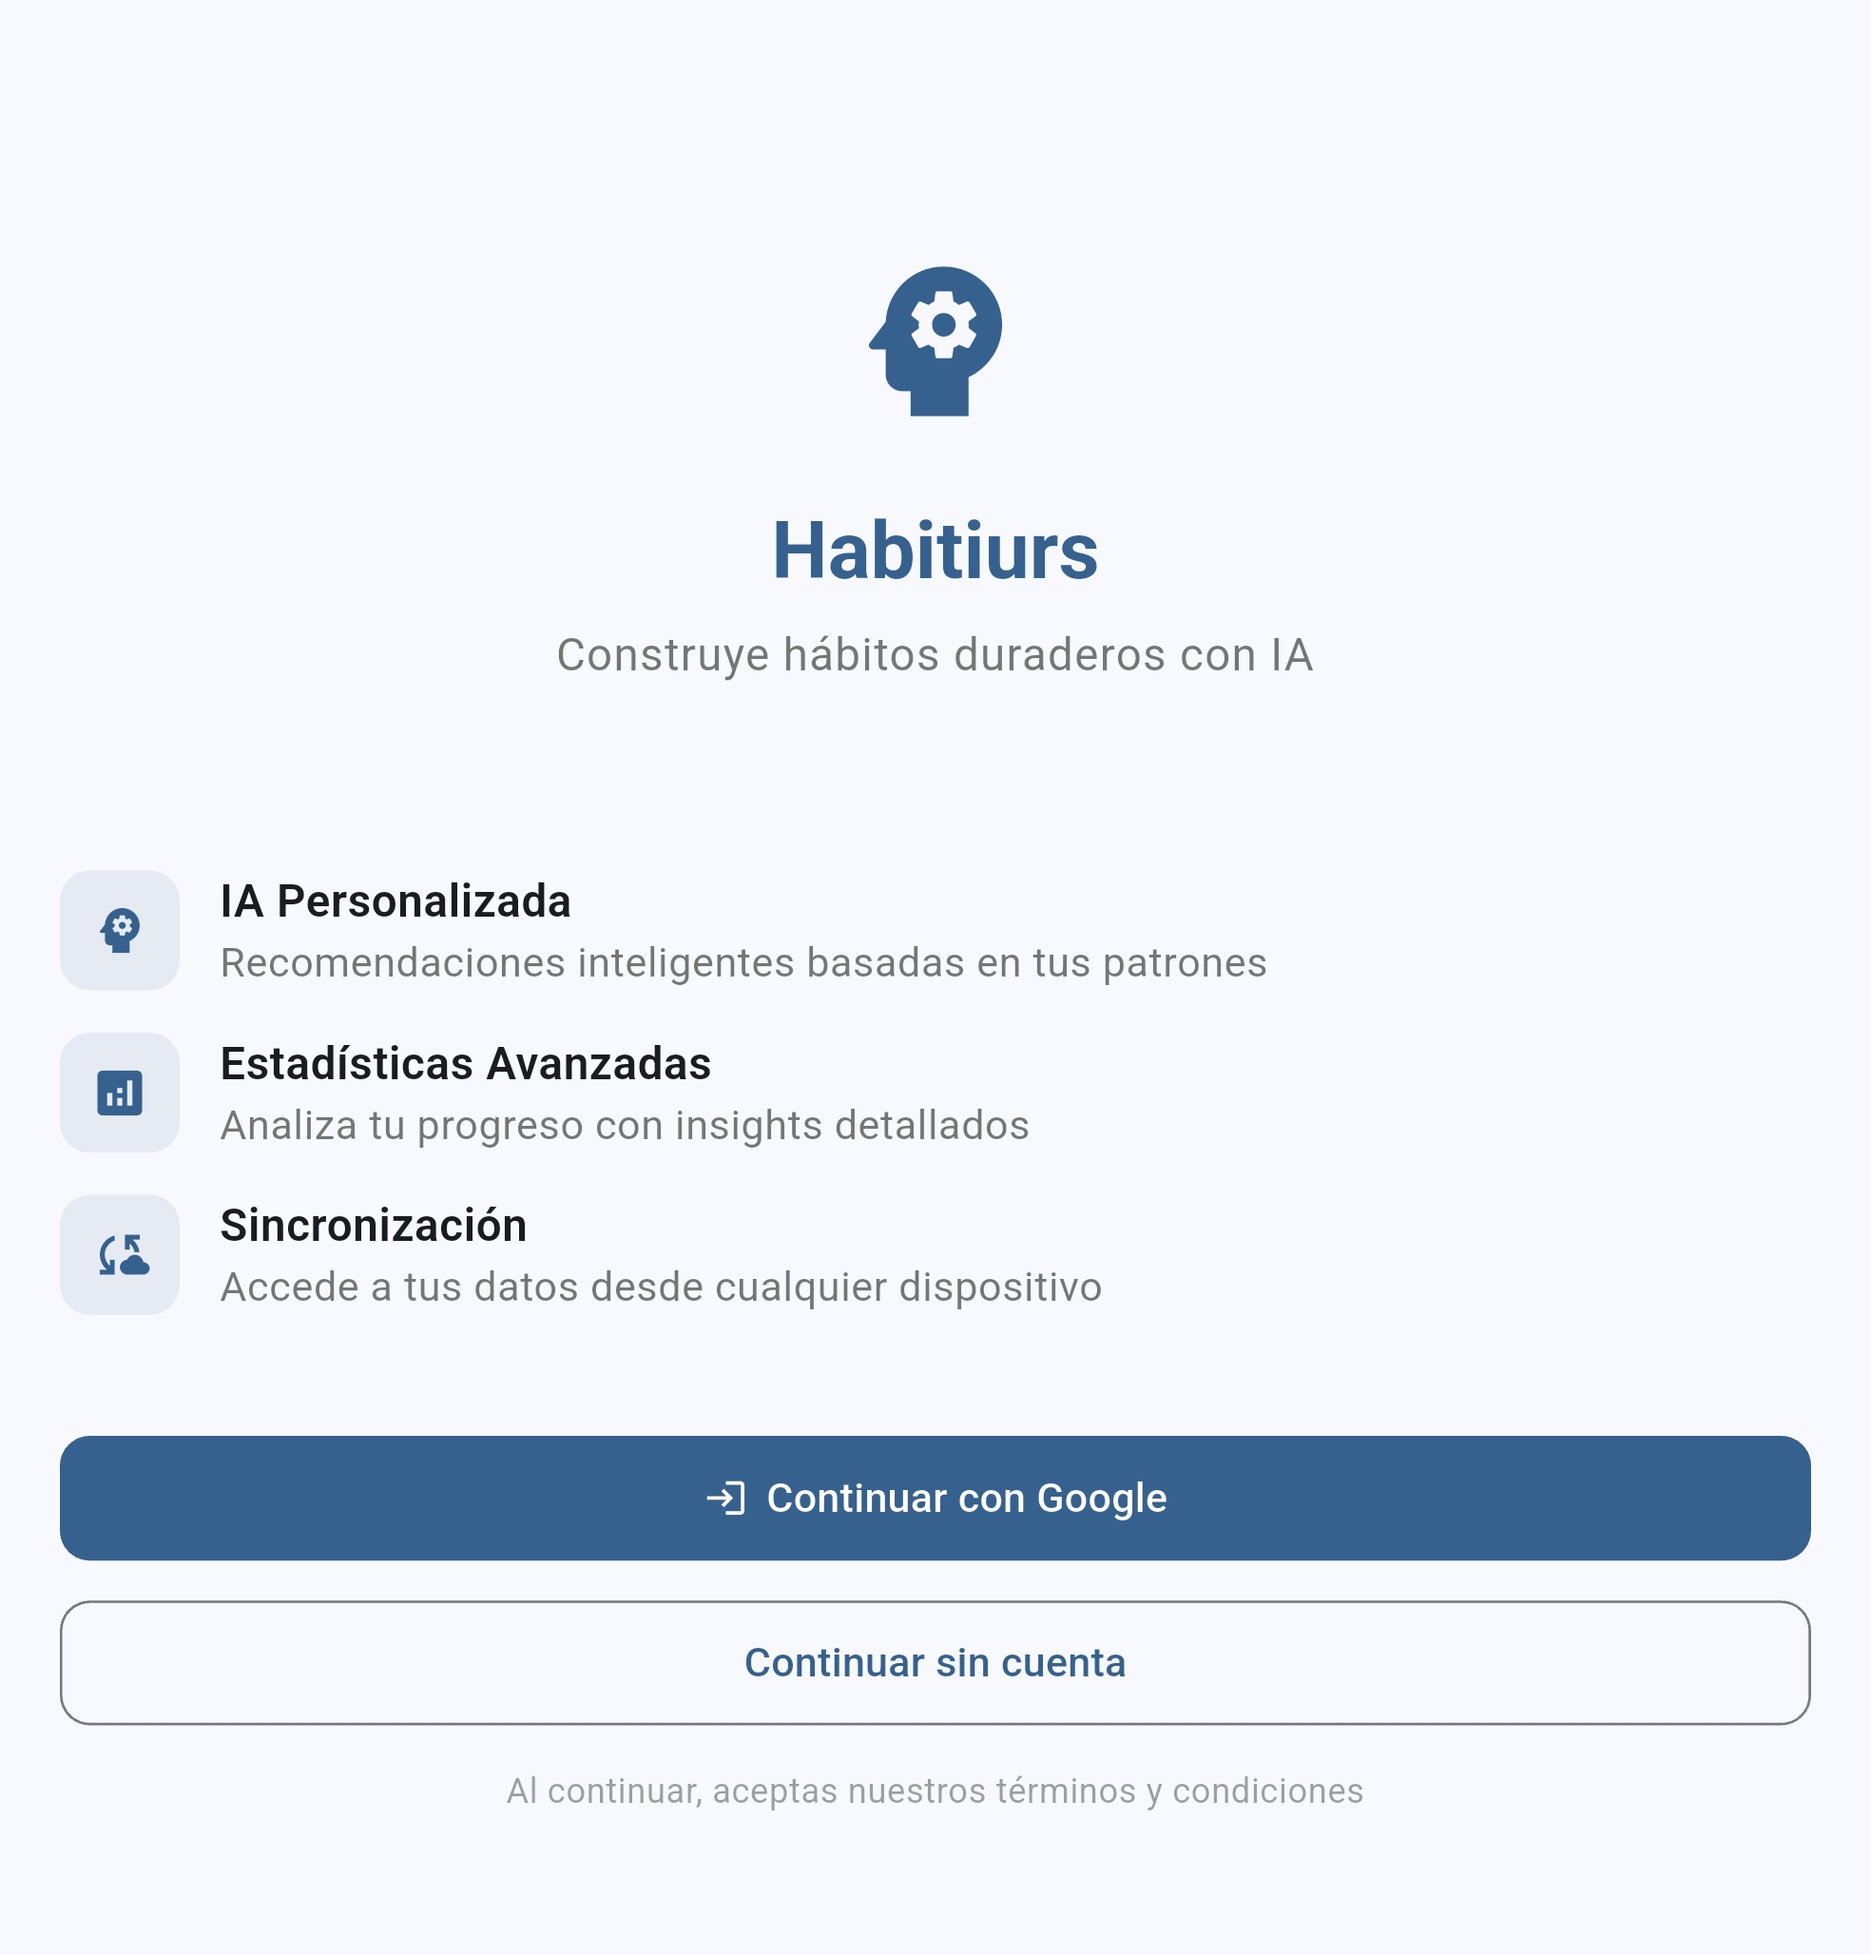
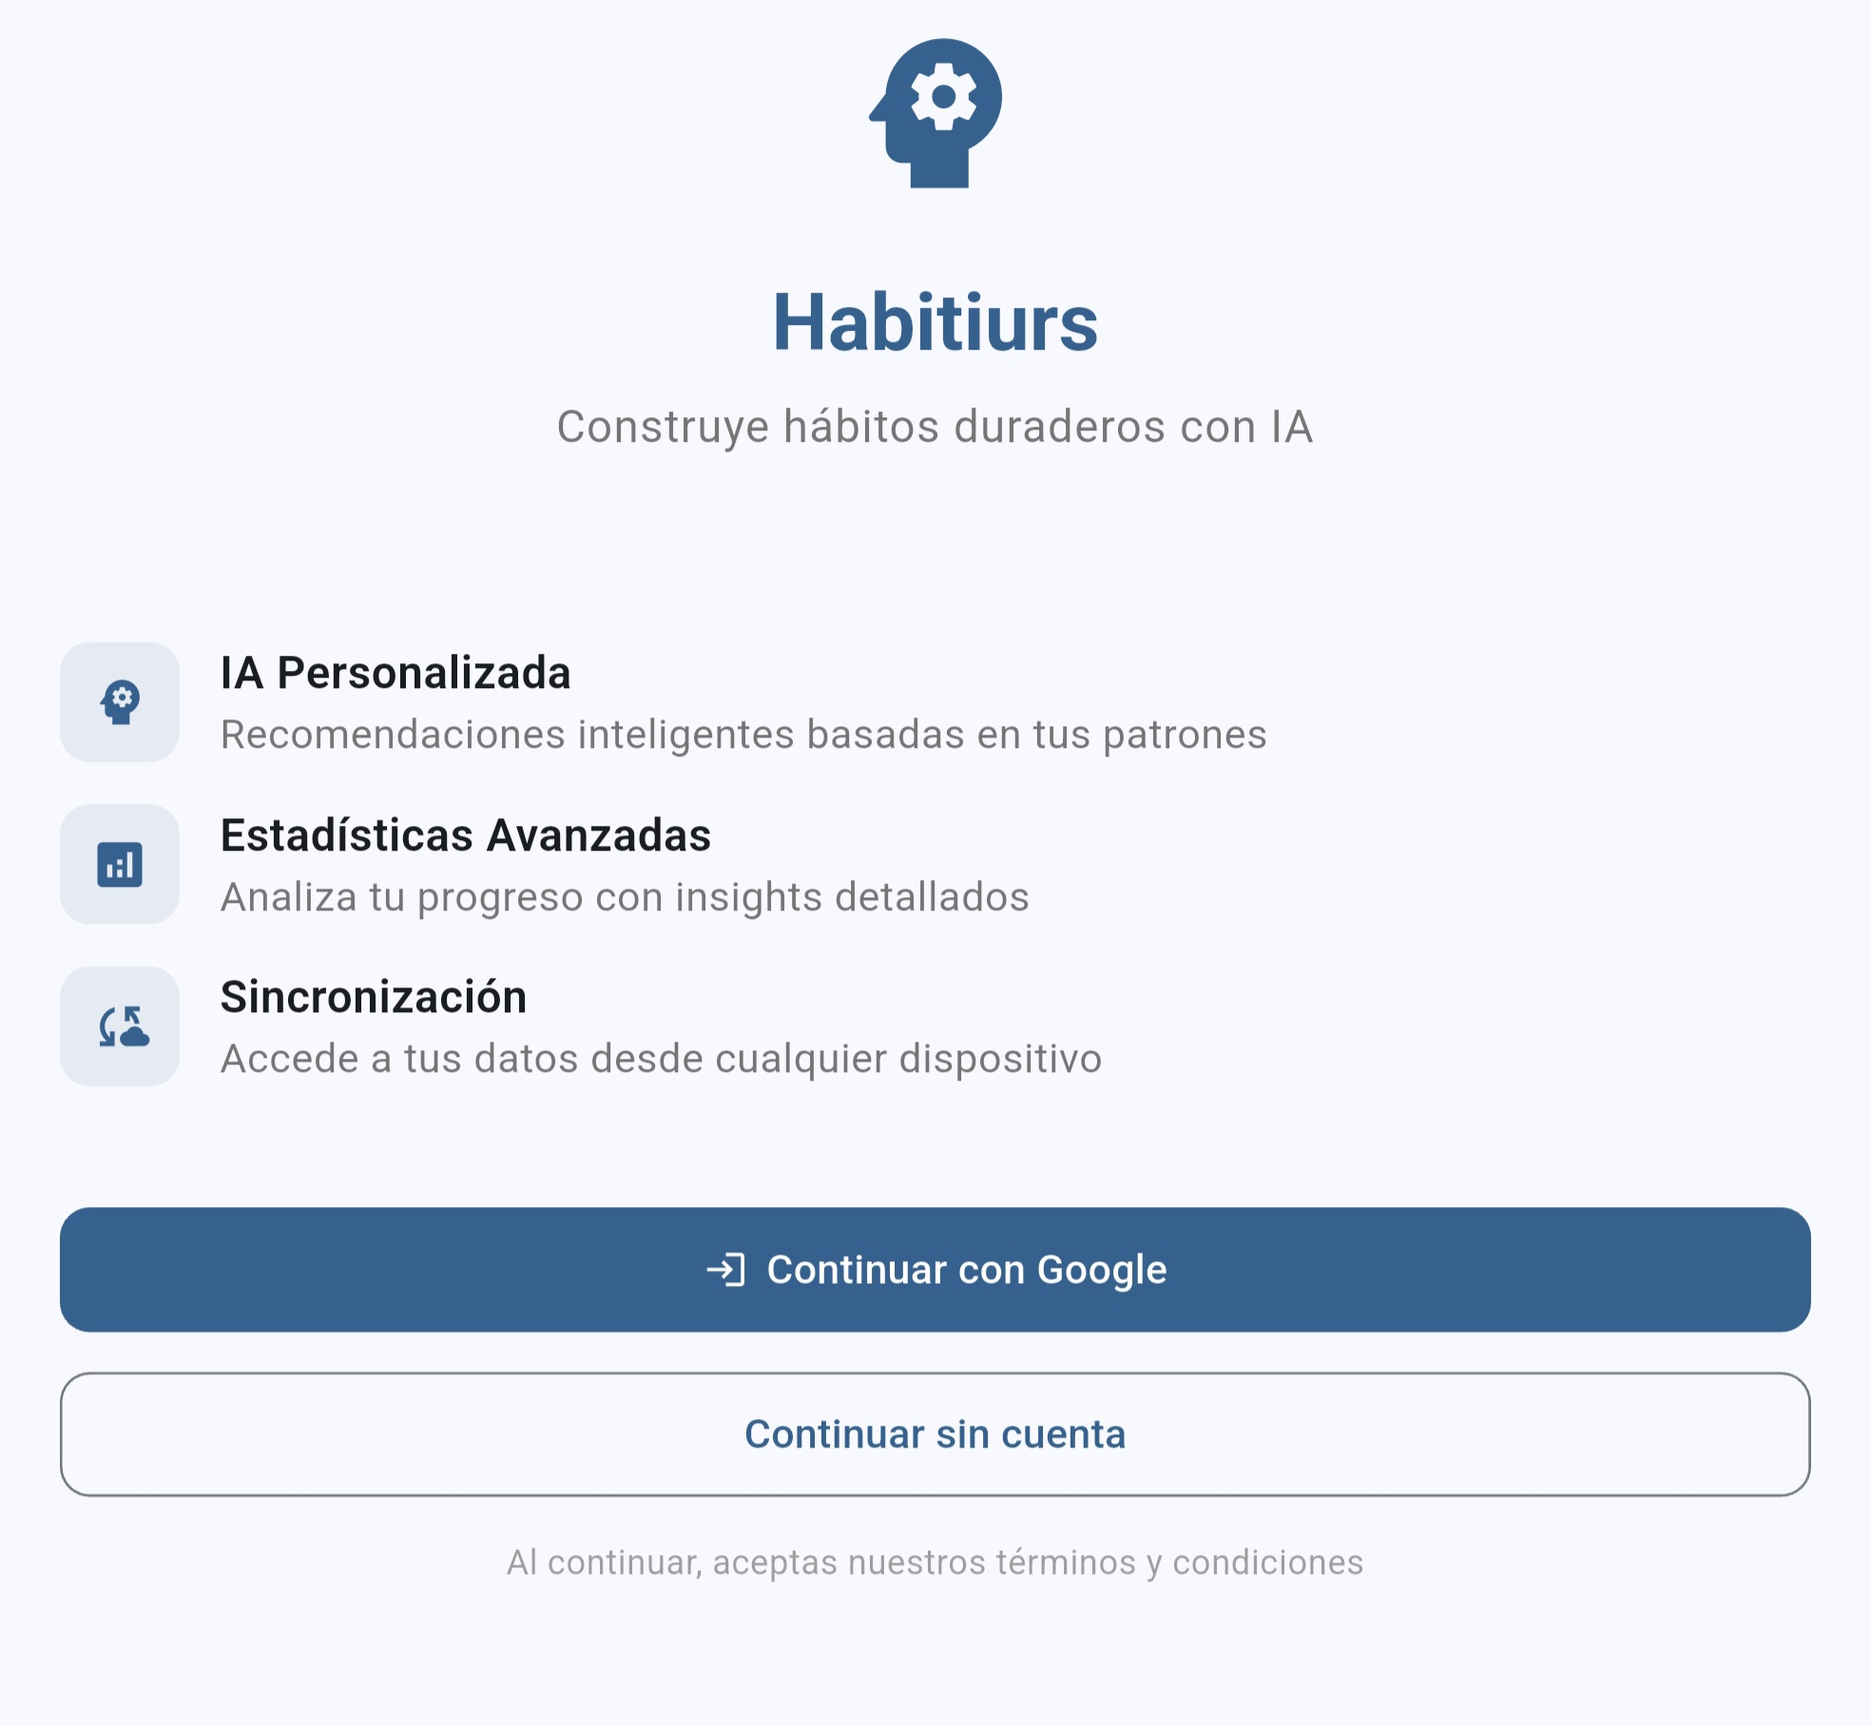
feat: update project mockups and replace placeholder with FinanzApp visual assets

diff --git a/index.html b/index.html
@@ -112,7 +112,7 @@
 
                 <div class="hero-visual" aria-hidden="true">
                     <div class="visual-mesh"></div>
-                    <div class="mockup mockup-1" style="background-image:url('./assets/Mockups/CrediCuotas.png')"></div>
+                    <div class="mockup mockup-1" style="background-image:url('./assets/Mockups/FinanzappHome.jpg')"></div>
                     <div class="mockup mockup-2" style="background-image:url('./assets/Mockups/HabitiursHome.jpg')"></div>
                     <div class="mockup mockup-3" style="background-image:url('./assets/Mockups/KrdYaHome.jpg')"></div>
                     <div class="visual-tag tag-1">Flutter</div>
@@ -182,10 +182,7 @@
                     <!-- FinanzApp -->
                     <article class="card project" data-category="personal">
                         <div class="card-media">
-                            <div class="placeholder-mockup grad-violet">
-                                <span class="ph-name">FinanzApp</span>
-                                <span class="ph-meta">Personal Finance</span>
-                            </div>
+                            <img src="./assets/Mockups/FinanzappLoginFold.png" alt="FinanzApp" loading="lazy">
                             <span class="badge badge-personal">
                                 <span data-lang="es">Personal</span>
                                 <span data-lang="en" hidden>Personal</span>
@@ -223,7 +220,7 @@
                     <!-- Credicuotas Wallet -->
                     <article class="card project" data-category="pro">
                         <div class="card-media">
-                            <img src="./assets/Mockups/CrediCuotas.png" alt="Credicuotas Wallet" loading="lazy">
+                            <img src="./assets/Mockups/CredicuotasPage.png" alt="Credicuotas Wallet" loading="lazy">
                             <span class="badge badge-pro">
                                 <span data-lang="es">Profesional</span>
                                 <span data-lang="en" hidden>Professional</span>
